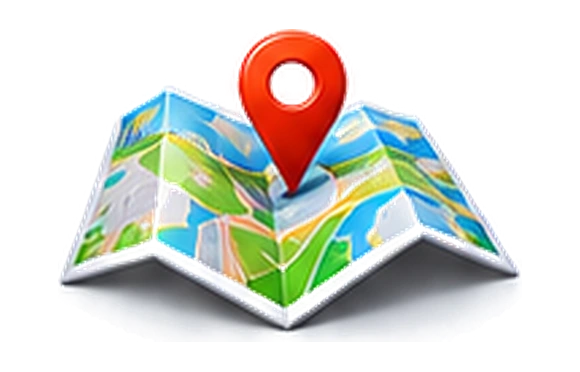
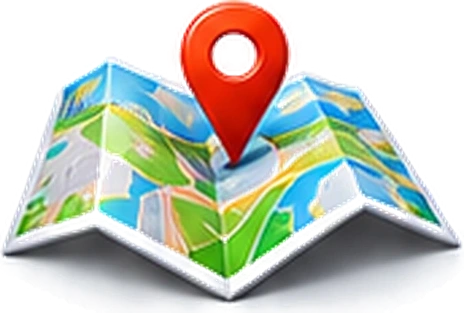
Жүргүнчү: «Башка адамга» сүрөтү чоңойду (бош четтер кесилди)
Claude-Session: https://claude.ai/code/session_01QqaFd74dCabiCok1GW4n4v

diff --git a/static/rider.html b/static/rider.html
@@ -100,8 +100,8 @@ input.f:focus{border-color:var(--navy)}
 .quick{display:flex;gap:6px;flex-wrap:wrap;margin-bottom:8px}
 .quick button{border:1px solid var(--line);background:#fff;border-radius:16px;padding:6px 10px;font-size:13px;cursor:pointer}
 </style>
-<link rel="preload" as="image" href="/static/h_taxi.webp?v=24"><link rel="preload" as="image" href="/static/h_box.webp?v=24"><link rel="preload" as="image" href="/static/h_girl.webp?v=24"><link rel="preload" as="image" href="/static/h_map.webp?v=24">
-<link rel="stylesheet" href="/static/theme.css?v=129">
+<link rel="preload" as="image" href="/static/h_taxi.webp?v=24"><link rel="preload" as="image" href="/static/h_box.webp?v=24"><link rel="preload" as="image" href="/static/h_girl.webp?v=25"><link rel="preload" as="image" href="/static/h_map.webp?v=25">
+<link rel="stylesheet" href="/static/theme.css?v=130">
 <link rel="stylesheet" href="/static/dark.css?v=21">
 <script src="/static/night.js?v=2"></script>
 </head>
@@ -333,7 +333,7 @@ function viewIdle() {
     <button class="haddr" id="hAddr"><small><img class="pinI" src="/static/pin.webp?v=24" alt="">Сиз турган жер</small><b id="fromTxt">${esc(S.fromAddr || "Аныкталууда…")}</b><span>›</span></button>
     <div class="tiles">${tile("tTaxi", "h_taxi.webp?v=24", "Такси", `<span id="taxiEta">${homeEta()}</span>`, true, !has("delivery"))}
       ${has("delivery") ? tile("tDel", "h_box.webp?v=24", "Жеткирүү", "Буюм, документ") : ""}</div>
-    <div class="tiles2">${stile("tOther", "h_girl.webp?v=24", "Башка адамга такси заказ кылуу")}${stile("tMap", "h_map.webp?v=24", "Картадан<br>белгилөө")}</div>
+    <div class="tiles2">${stile("tOther", "h_girl.webp?v=25", "Башка адамга такси заказ кылуу")}${stile("tMap", "h_map.webp?v=25", "Картадан<br>белгилөө")}</div>
     ${has("comfort") || has("minivan") ? `<div class="tiles3">${has("comfort") ? `<button class="sm" id="tComf"><span>🚘</span>Комфорт</button>` : ""}${has("minivan") ? `<button class="sm" id="tVan"><span>🚐</span>Минивэн</button>` : ""}</div>` : ""}
     <button class="hsearch" id="hSearch">🔍 <span>Каякка барасыз?</span><em>›</em></button>
     <div class="hrec">${rec.slice(0, 5).map((r, i) => `<button class="rec" data-i="${i}"><span class="pi">${r.ico}</span><span class="rt"><b>${esc(r.name)}</b><small>${esc(r.sub)}</small></span><span class="t">${minsTo(r)}</span><span class="chev">›</span></button>`).join("")}</div>

diff --git a/static/sw.js b/static/sw.js
@@ -1,8 +1,8 @@
 // Такси ТАП! — service worker: тиркеме катары орнотуу жана интернет жок болсо жөнөкөй бет.
 // API'лер жана карта кэштелбейт — абал ар дайым жаңы болушу керек.
-const SHELL = "taxitap-v204";
+const SHELL = "taxitap-v205";
 const PAGES = ["/", "/driver", "/static/area.js?v=15", "/static/voice.js?v=6", "/static/night.js?v=2", "/static/dark.css?v=21", "/static/manifest.json", "/static/icon-192.png", "/static/logo.png", "/static/n_home.webp?v=24", "/static/n_trips.webp?v=24", "/static/n_go.webp?v=24", "/static/n_help.webp?v=24", "/static/n_cab.webp?v=24", "/static/n_earn.webp?v=24", "/static/r_bag.webp?v=24", "/static/r_car.webp?v=24", "/static/cb_tl.webp?v=24", "/static/cb_tr.webp?v=24", "/static/qr.js", "/static/qrshare.js", "/static/c_car.webp?v=24",
-  "/static/h_taxi.webp?v=24", "/static/h_box.webp?v=24", "/static/h_girl.webp?v=24", "/static/h_map.webp?v=24"];
+  "/static/h_taxi.webp?v=24", "/static/h_box.webp?v=24", "/static/h_girl.webp?v=25", "/static/h_map.webp?v=25"];
 self.addEventListener("install", e => e.waitUntil(caches.open(SHELL).then(c => c.addAll(PAGES)).then(() => self.skipWaiting())));
 self.addEventListener("activate", e => e.waitUntil(
   caches.keys().then(ks => Promise.all(ks.filter(k => k !== SHELL && k !== "taxitap-voice").map(k => caches.delete(k)))).then(() => self.clients.claim())));

diff --git a/static/admin.html b/static/admin.html
@@ -81,7 +81,7 @@ td input.f{padding:7px 8px;max-width:90px;min-width:58px}
 .dgl{display:block;margin-top:6px;font-size:13px}.dgl.ok{color:#1a7a40;font-weight:600}.dgl summary{cursor:pointer;list-style:none;font-weight:600}
 .dgl summary::-webkit-details-marker{display:none}.dgl summary b{display:inline!important;margin:0!important}.dgl summary{display:block}.dgl .r{color:#c22}.dgl .o{color:#b26a00}.dgi{padding:3px 0 0 4px;font-size:13px}.dgi.bad{color:#b42318}
 </style>
-<link rel="stylesheet" href="/static/theme.css?v=129">
+<link rel="stylesheet" href="/static/theme.css?v=130">
 </head>
 <body class="adm">
 <header><div class="logo"><img src="/static/logo.png?v=2" alt="">Такси <b>ТАП!</b><span class="ver">Админ</span></div><div class="live" id="live"></div></header>

diff --git a/static/driver.html b/static/driver.html
@@ -102,7 +102,7 @@ label.l{font-size:13px;color:var(--soft);display:block;margin:6px 0 4px}
 .quick button{border:1px solid var(--line);background:#fff;border-radius:16px;padding:6px 10px;font-size:13px;cursor:pointer}
 .sw{display:flex;align-items:center;justify-content:space-between;padding:12px 0;border-top:1px solid var(--line);margin-top:10px}
 </style>
-<link rel="stylesheet" href="/static/theme.css?v=129">
+<link rel="stylesheet" href="/static/theme.css?v=130">
 <link rel="stylesheet" href="/static/dark.css?v=21">
 <script src="/static/night.js?v=2"></script>
 </head>

diff --git a/static/track.html b/static/track.html
@@ -22,7 +22,7 @@ h2{font-size:20px;margin:0 0 8px}
 .carm{width:30px;height:30px;border-radius:50%;background:var(--navy);border:3px solid #fff;box-shadow:0 2px 6px rgba(0,0,0,.3);display:grid;place-items:center;color:#fff;font-size:14px}
 .carm.g{background:var(--gold);color:#16161a}
 </style>
-<link rel="stylesheet" href="/static/theme.css?v=129">
+<link rel="stylesheet" href="/static/theme.css?v=130">
 <link rel="stylesheet" href="/static/dark.css?v=21">
 <script src="/static/night.js?v=2"></script>
 </head>

diff --git a/static/park.html b/static/park.html
@@ -7,7 +7,7 @@
 <title>Таксопарк кабинети — Такси ТАП!</title>
 <link rel="apple-touch-icon" href="/static/icon-192.png?v=4">
 <link rel="stylesheet" href="https://unpkg.com/leaflet@1.9.4/dist/leaflet.css">
-<link rel="stylesheet" href="/static/theme.css?v=129">
+<link rel="stylesheet" href="/static/theme.css?v=130">
 <link rel="stylesheet" href="/static/dark.css?v=21">
 <script src="/static/night.js?v=2"></script>
 <style>

diff --git a/static/theme.css b/static/theme.css
@@ -817,3 +817,4 @@ html.uidark .tapchip{background:#23242b;color:#f2f2f5}
 .rolesw a.r.y{box-shadow:inset 0 0 0 1.5px #ffd24d}.rolesw a.r.g{box-shadow:inset 0 0 0 1.5px #5cc79a}
 html.uidark .rolesw .r:not(.on){background:#23242b;color:#f2f2f5}
 .cclist>button.dgc .yi{background:#ffc61a;border-radius:14px}
+#tOther img{height:104px!important;max-width:44%!important;margin:-4px -2px -8px 0}

diff --git a/static/terms.html b/static/terms.html
@@ -14,7 +14,7 @@ h1{font-size:22px;margin:4px 0 4px}h2{font-size:17px;margin:24px 0 6px}
 p,li{font-size:15px}.muted{color:#8a8a95;font-size:13px}
 a{color:#9a7400}
 </style>
-<link rel="stylesheet" href="/static/theme.css?v=129">
+<link rel="stylesheet" href="/static/theme.css?v=130">
 </head>
 <body>
 <header>Такси <b>ТАП!</b></header>
